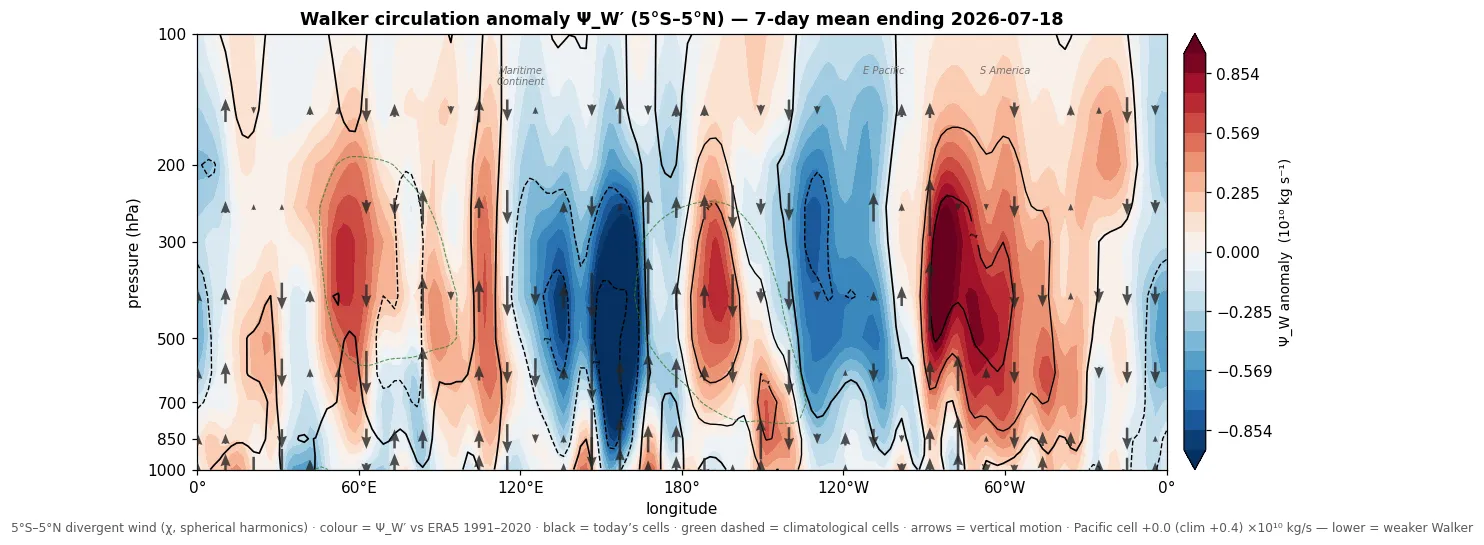
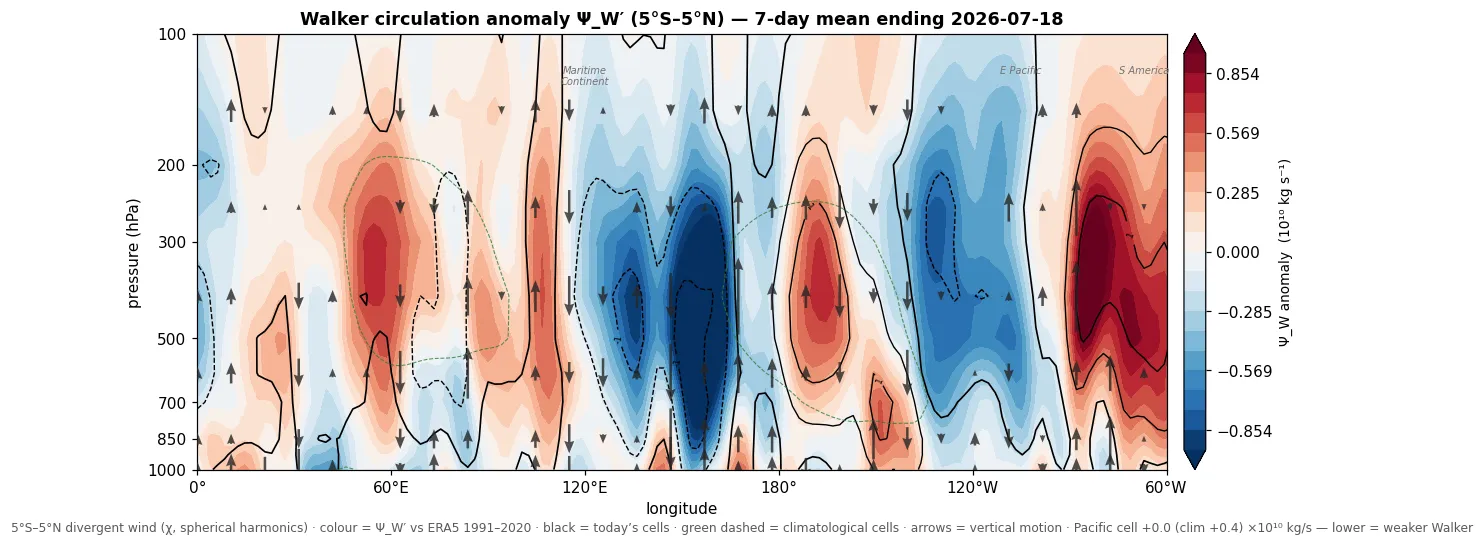
walker: trim domain to Indo-Pacific (cut east of 60W)

diff --git a/scripts/mjo/src/walker.py b/scripts/mjo/src/walker.py
@@ -161,10 +161,12 @@ def plot_psi(psi, p_hpa, lon, out: Path, title: str, vlim, psi_abs, pidx, pclim,
     ax.set_yticks([1000, 850, 700, 500, 300, 200, 100])
     ax.set_yticklabels([1000, 850, 700, 500, 300, 200, 100])
     ax.minorticks_off()
-    ax.set_xlim(0, 360); ax.set_xticks(range(0, 361, 60))
-    ax.set_xticklabels(["0°", "60°E", "120°E", "180°", "120°W", "60°W", "0°"])
+    # Indo-Pacific focus: the Walker circulation lives west of South America,
+    # so cut the Atlantic/Africa segment east of 60°W (300°E)
+    ax.set_xlim(0, 300); ax.set_xticks(range(0, 301, 60))
+    ax.set_xticklabels(["0°", "60°E", "120°E", "180°", "120°W", "60°W"])
     ax.set_xlabel("longitude"); ax.set_ylabel("pressure (hPa)")
-    for x, lab in ((120, "Maritime\nContinent"), (255, "E Pacific"), (300, "S America")):
+    for x, lab in ((120, "Maritime\nContinent"), (255, "E Pacific"), (293, "S America")):
         ax.text(x, 118, lab, ha="center", va="top", fontsize=6.5, color="0.45", style="italic")
     ax.set_title(title, fontsize=11.5, fontweight="bold")
     cb = fig.colorbar(cf, ax=ax, pad=0.015)
